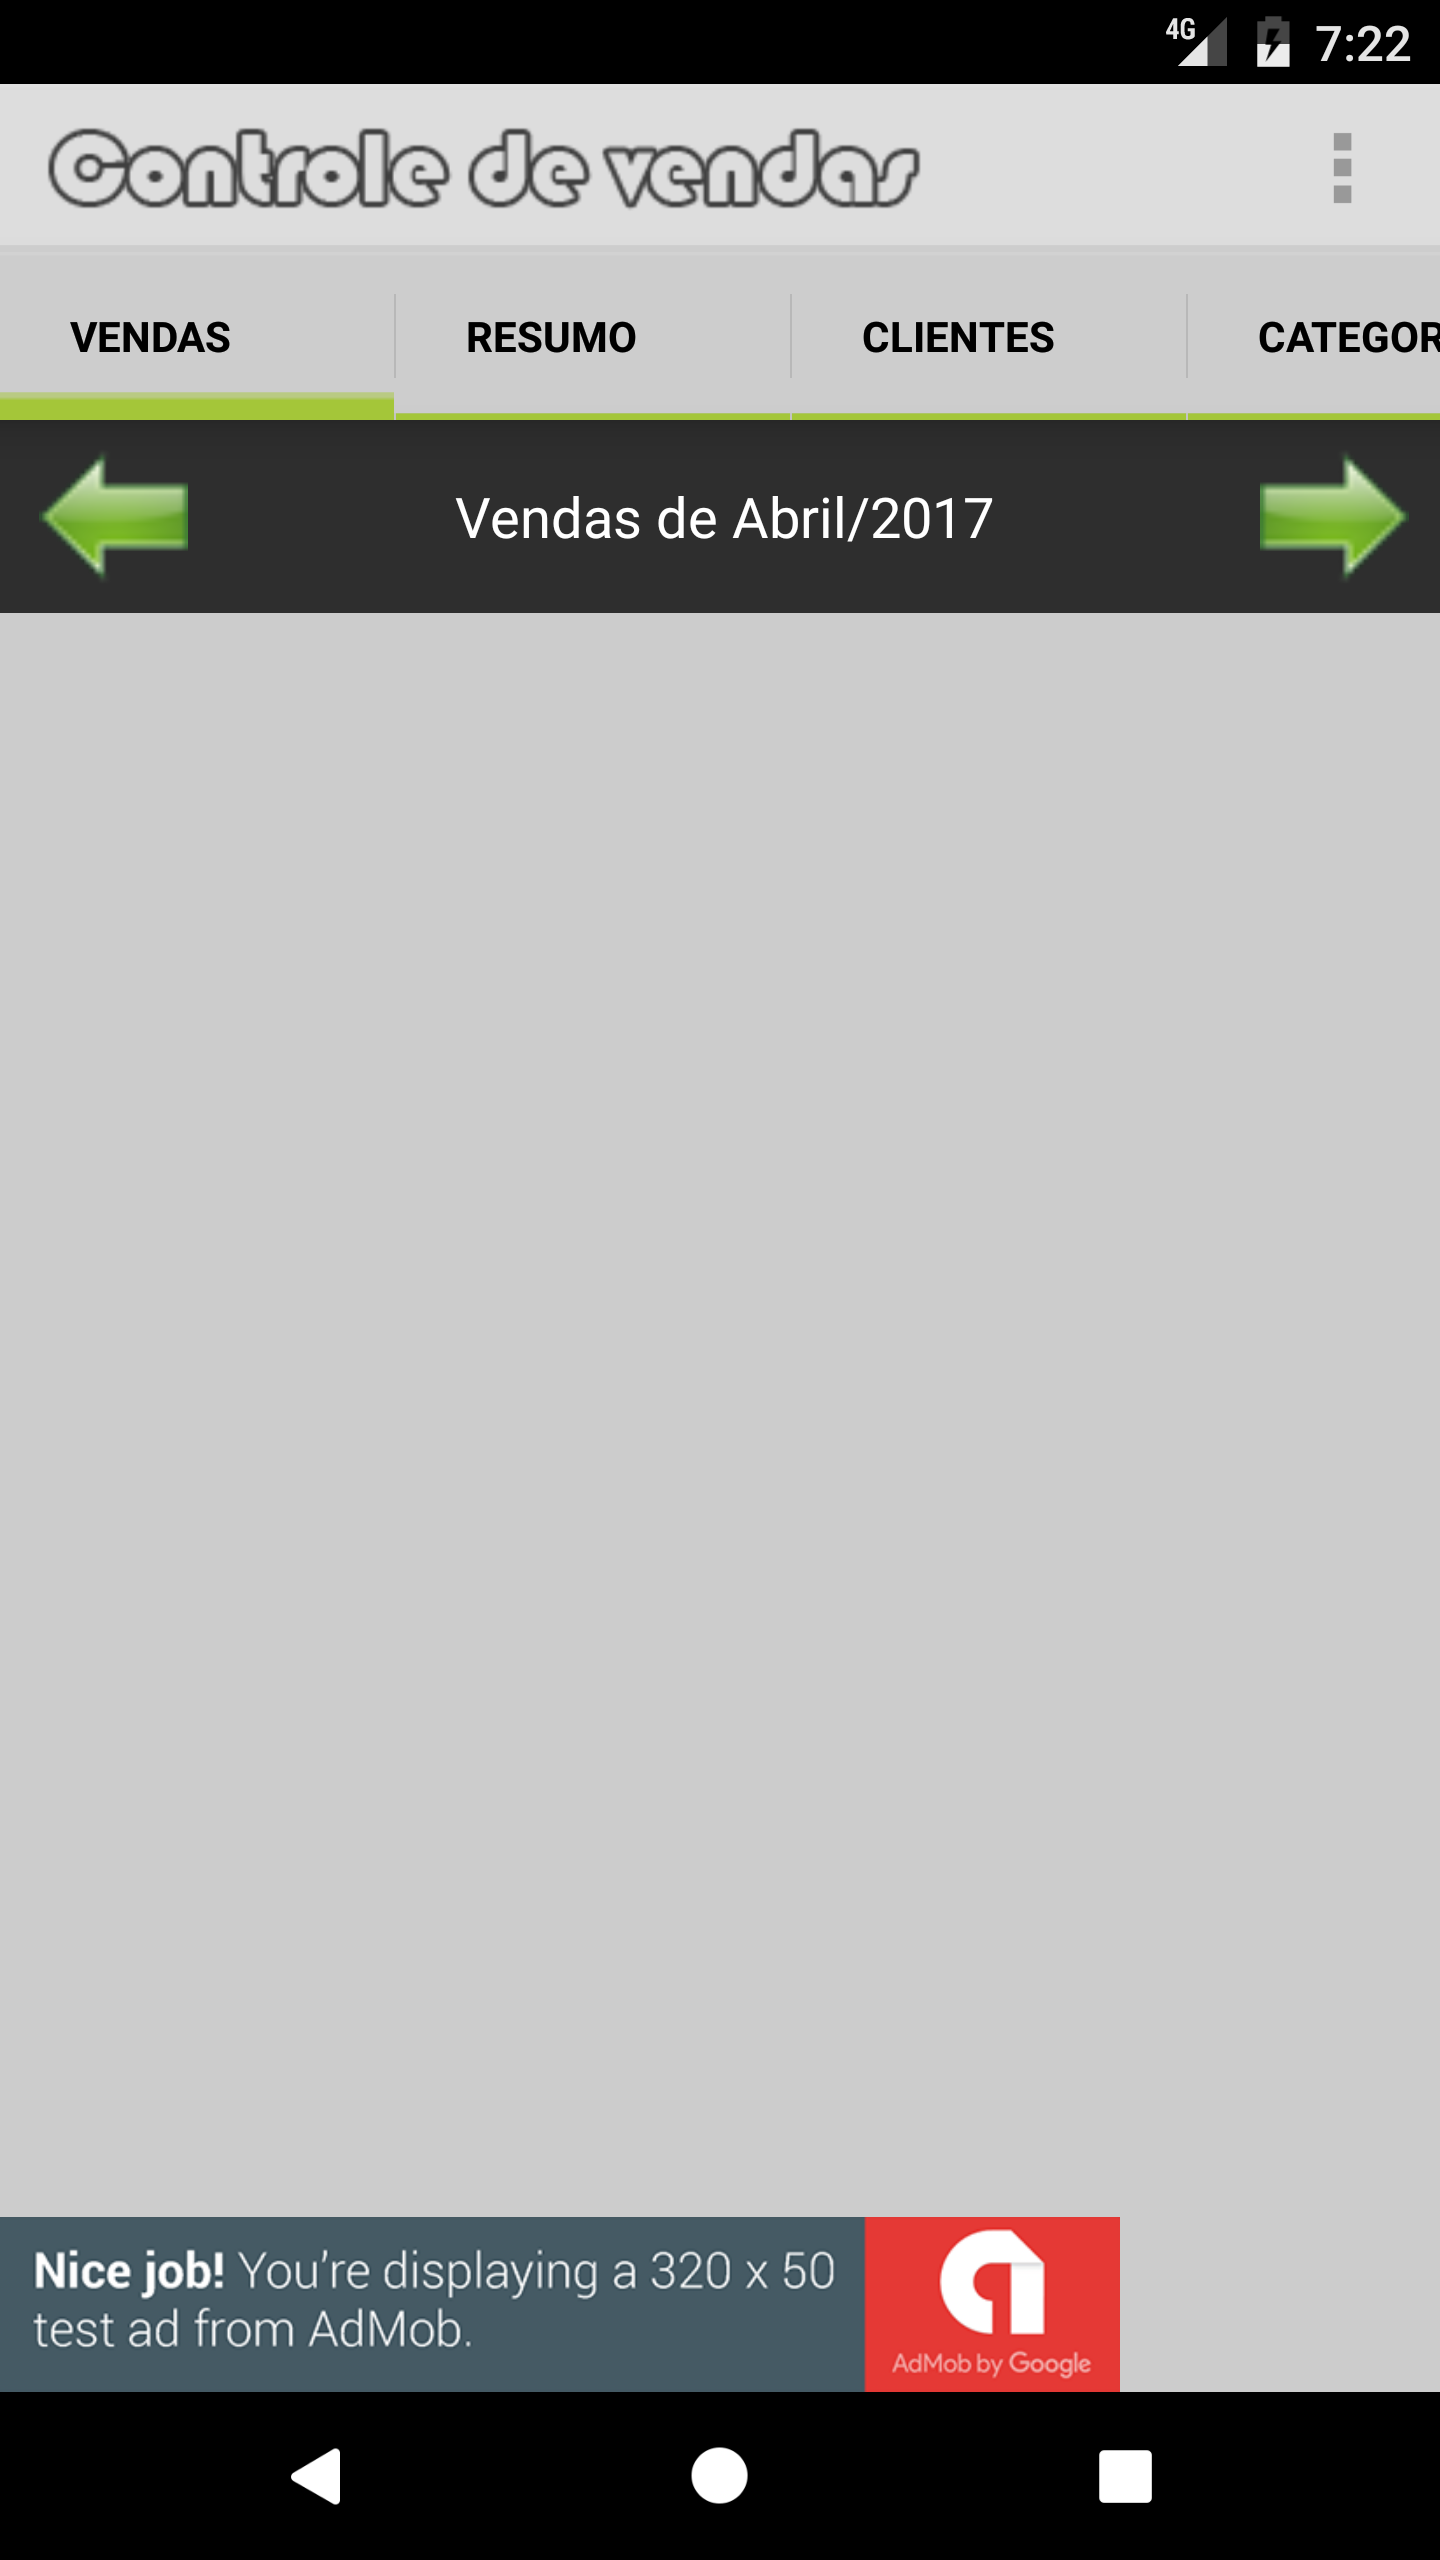
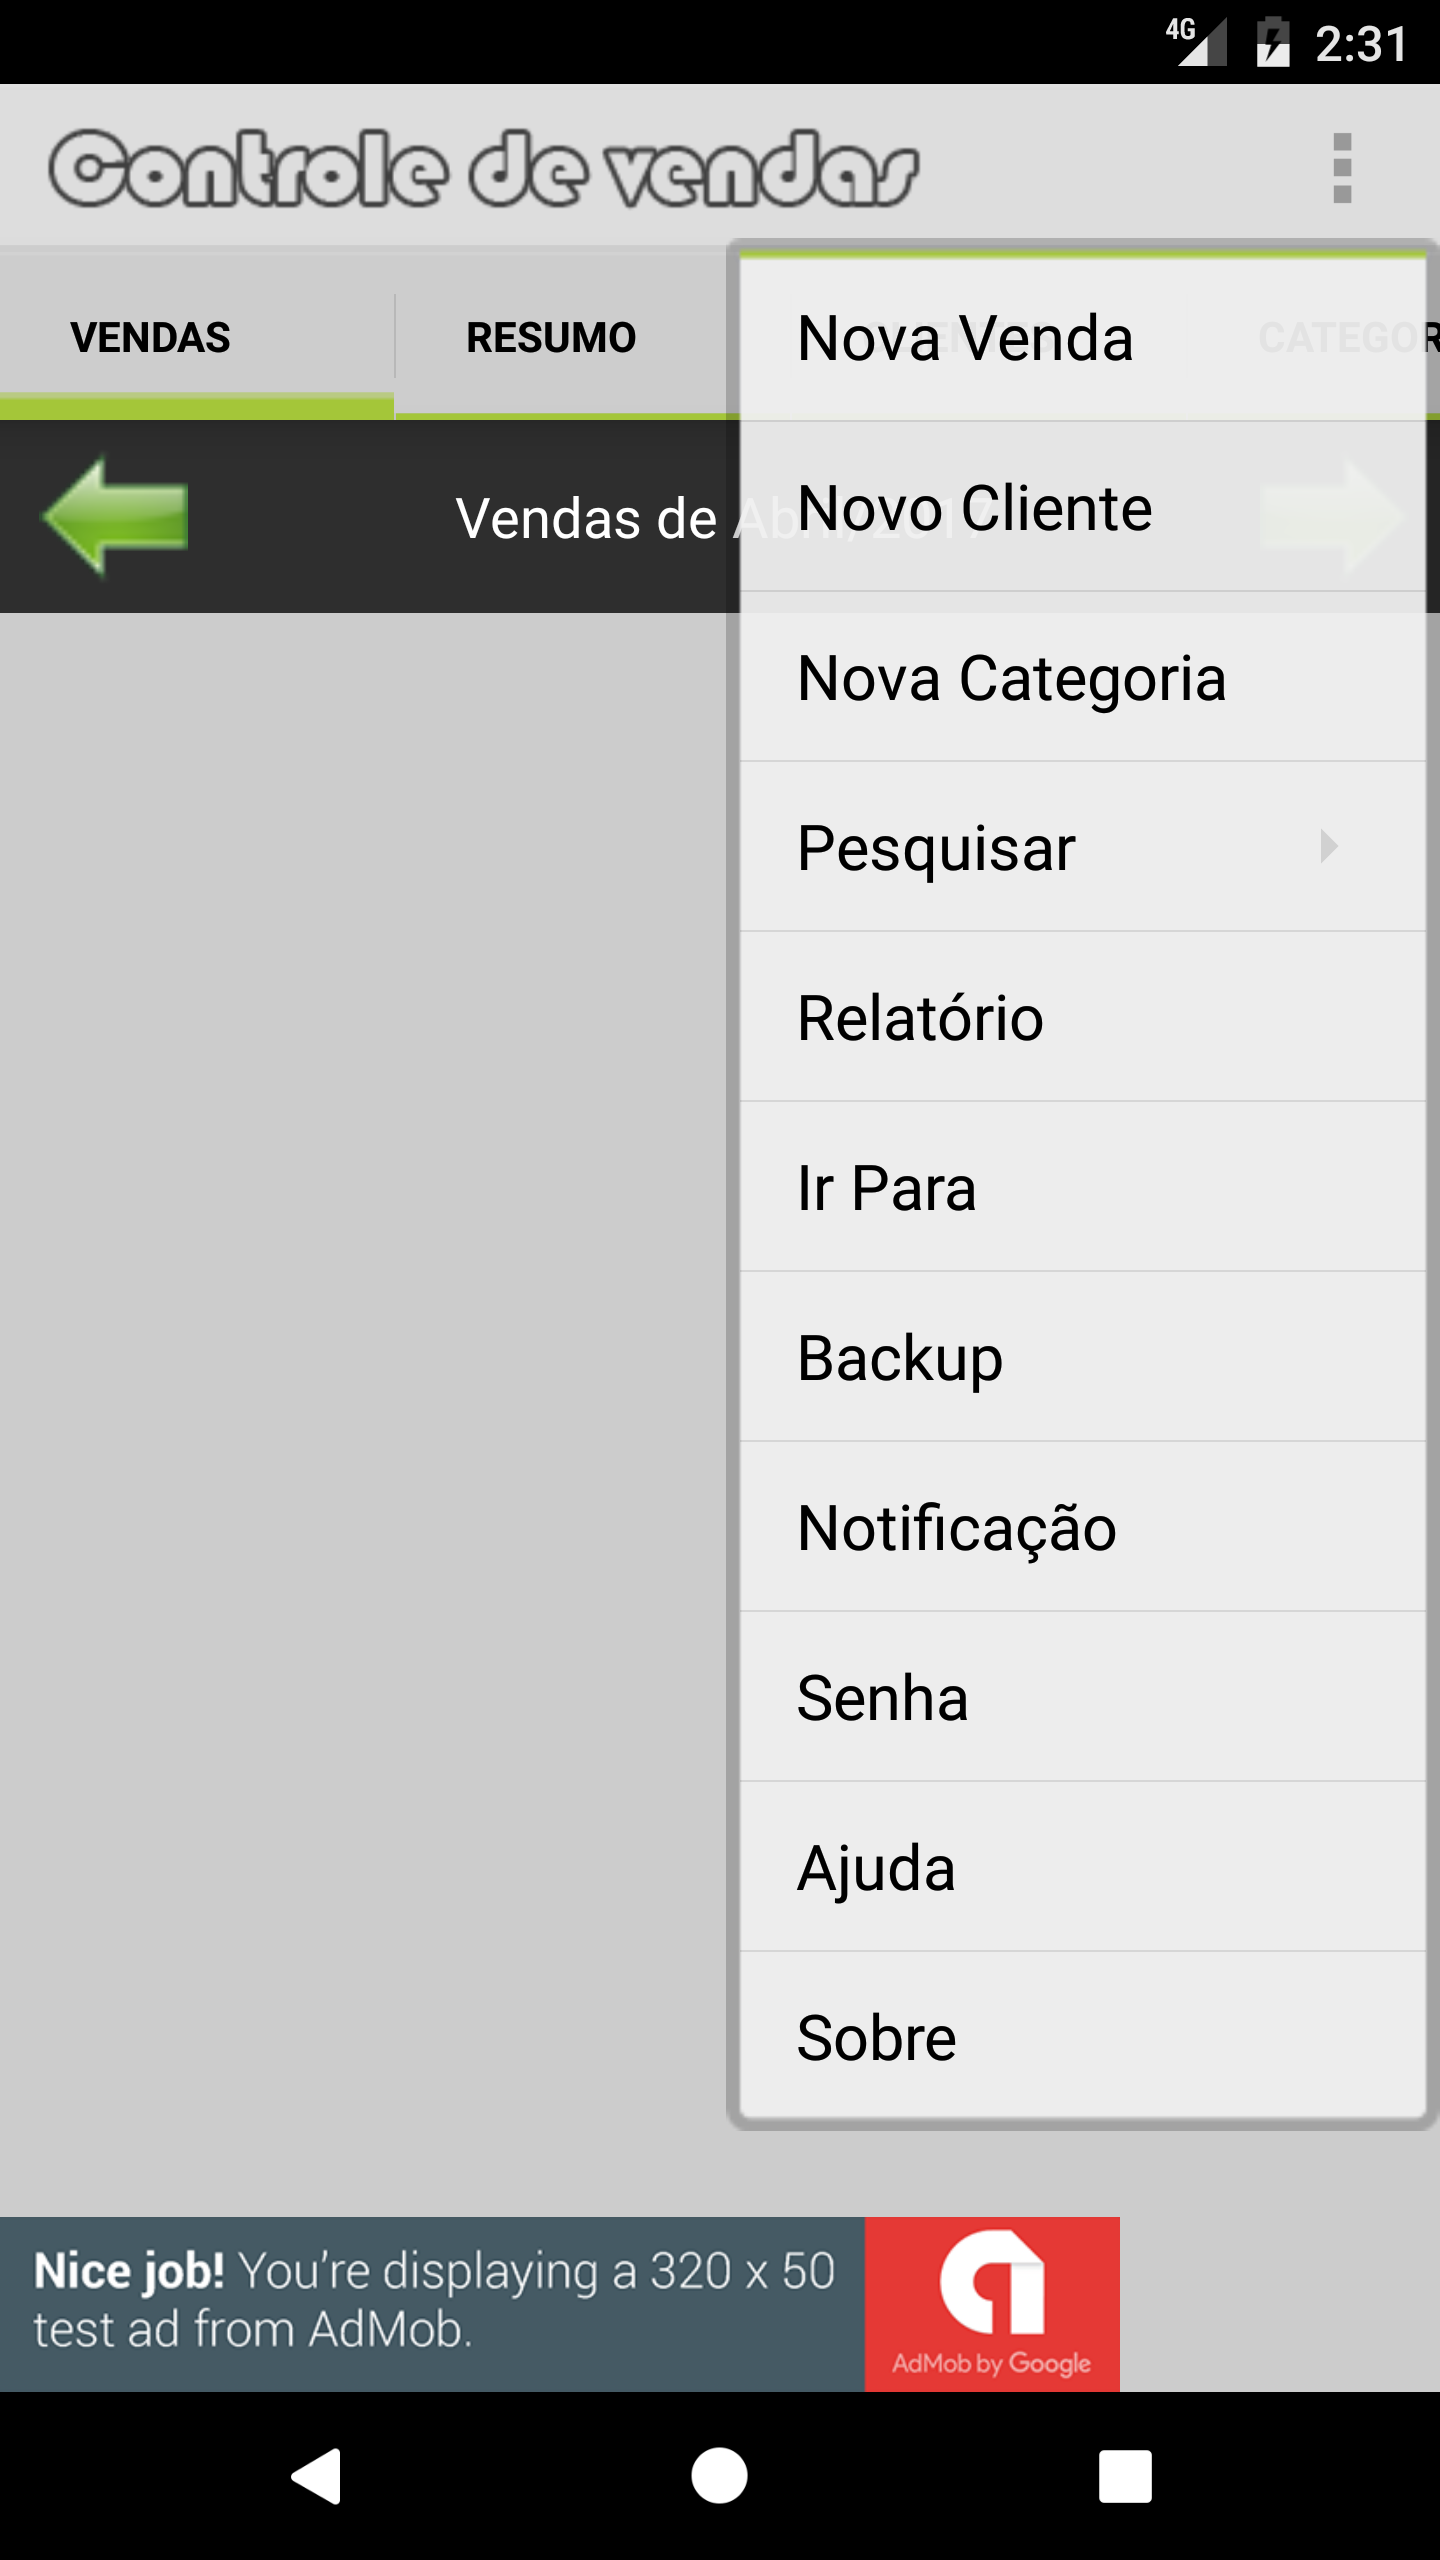
Alterações em Cadastrar Venda

diff --git a/features/support/app_installation_hooks.rb b/features/support/app_installation_hooks.rb
@@ -1,27 +1,27 @@
-require 'calabash-android/management/app_installation'
+#require 'calabash-android/management/app_installation'
 
-AfterConfiguration do |config|
-  FeatureMemory.feature = nil
-end
+#AfterConfiguration do |config|
+  #FeatureMemory.feature = nil
+#end
 
-Before do |scenario|
-  scenario = scenario.scenario_outline if scenario.respond_to?(:scenario_outline)
+#Before do |scenario|
+  #scenario = scenario.scenario_outline if scenario.respond_to?(:scenario_outline)
 
-  feature = scenario.feature
-  if FeatureMemory.feature != feature || ENV['RESET_BETWEEN_SCENARIOS'] == '1'
-    if ENV['RESET_BETWEEN_SCENARIOS'] == '1'
-      log 'New scenario - reinstalling apps'
-    else
-      log 'First scenario in feature - reinstalling apps'
-    end
+  #feature = scenario.feature
+  #if FeatureMemory.feature != feature || ENV['RESET_BETWEEN_SCENARIOS'] == '1'
+    #if ENV['RESET_BETWEEN_SCENARIOS'] == '1'
+      #log 'New scenario - reinstalling apps'
+    #else
+     # log 'First scenario in feature - reinstalling apps'
+    #end
 
-    ensure_app_installed
-    clear_app_data
-    FeatureMemory.feature = feature
-    FeatureMemory.invocation = 1
-  else
-    FeatureMemory.invocation += 1
-  end
-end
+    #ensure_app_installed
+    #clear_app_data
+    #FeatureMemory.feature = feature
+    #FeatureMemory.invocation = 1
+  #else
+   #FeatureMemory.invocation += 1
+  #end
+#end
 
-FeatureMemory = Struct.new(:feature, :invocation).new
+#FeatureMemory = Struct.new(:feature, :invocation).new

diff --git a/features/step_definitions/cadastrar_venda_steps.rb b/features/step_definitions/cadastrar_venda_steps.rb
@@ -1,0 +1,29 @@
+# encoding:utf-8
+
+
+Dado(/^que estou logado no app$/) do
+    element_exists("* text:'ControleVendas'")
+    sleep 1
+end
+
+Quando(/^clico cadastro uma venda com usuário cadastrado$/) do
+    #sleep 5
+    #touch(nil, :offset =>{:x => 1244, :y => 84})
+    @valor = Faker::Number.decimal(2)
+    tap_when_element_exists("android.widget.ImageButton {contentDescription CONTAINS[c] 'More options'}", timeout:10)
+    touch("* {text CONTAINS 'Nova Venda'}")
+    touch("* id:'txtCliente'")
+    tap_when_element_exists("* {text CONTAINS 'Joao ferreita'}",timeout:10)
+    query("* id:'valor'", setText: @valor)
+    query("* id:'vparcial'", setText: @valor)
+    touch("* id:'txtDtVenda'")
+    sleep 10    
+end
+
+Quando(/^preencho todos os campos obrigatórios$/) do
+  #pending # Write code here that turns the phrase above into concrete actions
+end
+
+Então(/^a venda deve ser cadastrada com sucesso\.$/) do
+  #pending # Write code here that turns the phrase above into concrete actions
+end
